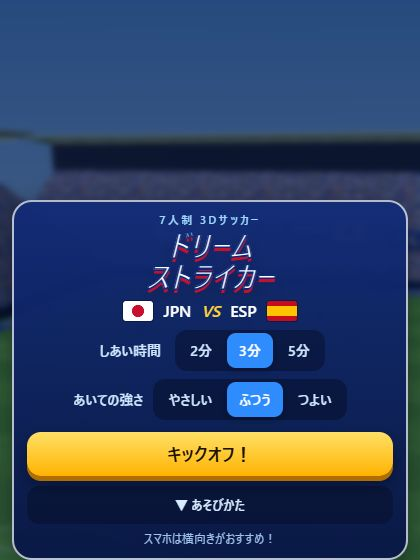
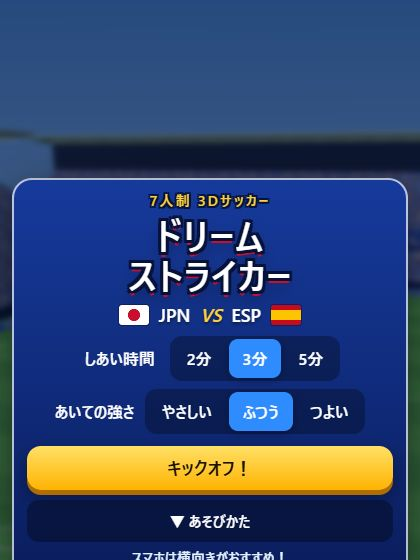
自動公開 / 更新: ドリームストライカー

diff --git a/apps/soccer-striker/index.html b/apps/soccer-striker/index.html
@@ -58,7 +58,7 @@
   .btn{position:fixed;z-index:6;border-radius:50%;background:radial-gradient(circle at 50% 30%,rgba(80,120,135,.78),rgba(18,38,52,.82));border:3px solid rgba(255,255,255,.85);display:flex;flex-direction:column;align-items:center;justify-content:center;font-weight:900;color:#fff;box-shadow:0 4px 12px rgba(0,0,0,.35);touch-action:none;transition:transform .06s}
   .btn.down{transform:scale(.92);filter:brightness(1.3)}
   .btn svg{width:42%;height:42%;pointer-events:none}
-  .btn span{font-size:clamp(11px,2.5vmin,17px);margin-top:1px;pointer-events:none;white-space:nowrap}
+  .btn span{font-size:clamp(12px,2.7vmin,18px);text-shadow:0 1px 3px rgba(0,0,0,.8);margin-top:1px;pointer-events:none;white-space:nowrap}
   #bShoot{width:var(--S);height:var(--S);right:var(--R0);bottom:calc(var(--B0) + var(--t)*1.0);border-color:#7fe3ff;box-shadow:0 0 0 3px rgba(40,160,255,.45),0 0 22px rgba(60,190,255,.7)}
   #bShoot span{font-size:clamp(13px,3vmin,20px)}
   #bPass{width:var(--s);height:var(--s);right:calc(var(--R0) + var(--S) + 2vmin);bottom:calc(var(--B0) + var(--t)*1.0 + var(--S)*.16)}
@@ -67,32 +67,32 @@
   .pow{position:absolute;inset:-9px;border-radius:50%;pointer-events:none;background:conic-gradient(#ffd23a calc(var(--p,0)*1turn),transparent 0);-webkit-mask:radial-gradient(farthest-side,transparent calc(100% - 7px),#000 calc(100% - 6px));mask:radial-gradient(farthest-side,transparent calc(100% - 7px),#000 calc(100% - 6px))}
 
   /* メッセージ */
-  #msg{position:fixed;z-index:8;left:0;right:0;top:26%;text-align:center;font-weight:900;font-style:italic;font-size:clamp(34px,11vmin,96px);letter-spacing:.04em;pointer-events:none;color:#fff;-webkit-text-stroke:2px #0b2a7a;text-shadow:0 4px 0 #0b2a7a,0 8px 24px rgba(0,0,0,.45)}
-  #msg.goal{color:#ffd23a;-webkit-text-stroke:3px #b3002d;text-shadow:0 5px 0 #b3002d,0 10px 30px rgba(0,0,0,.5);font-size:clamp(48px,16vmin,140px)}
+  #msg{position:fixed;z-index:8;left:0;right:0;top:26%;text-align:center;font-weight:900;font-size:clamp(34px,11vmin,96px);letter-spacing:.04em;pointer-events:none;color:#fff;text-shadow:3px 0px 0 #0b2a7a,-3px 0px 0 #0b2a7a,0px 3px 0 #0b2a7a,0px -3px 0 #0b2a7a,3px 3px 0 #0b2a7a,-3px -3px 0 #0b2a7a,3px -3px 0 #0b2a7a,-3px 3px 0 #0b2a7a,0 6px 0 #0b2a7a,0 10px 24px rgba(0,0,0,.5)}
+  #msg.goal{color:#ffd23a;font-style:italic;text-shadow:4px 0px 0 #b3002d,-4px 0px 0 #b3002d,0px 4px 0 #b3002d,0px -4px 0 #b3002d,4px 4px 0 #b3002d,-4px -4px 0 #b3002d,4px -4px 0 #b3002d,-4px 4px 0 #b3002d,0 7px 0 #b3002d,0 12px 30px rgba(0,0,0,.5);font-size:clamp(48px,16vmin,140px)}
   #msg.small{font-size:clamp(24px,7vmin,60px)}
   #msg.show{animation:pop .45s cubic-bezier(.2,1.6,.4,1)}
   @keyframes pop{from{transform:scale(.3);opacity:0}to{transform:scale(1);opacity:1}}
 
   /* オーバーレイ */
   .ov{position:fixed;inset:0;z-index:20;display:flex;align-items:center;justify-content:center;background:rgba(5,15,45,.55);padding:12px;-webkit-backdrop-filter:blur(3px);backdrop-filter:blur(3px)}
-  .card{width:min(560px,100%);max-height:100%;overflow:auto;background:linear-gradient(180deg,rgba(18,44,120,.95),rgba(8,22,70,.96));border:2px solid rgba(255,255,255,.7);border-radius:20px;padding:clamp(12px,3vmin,24px);text-align:center;box-shadow:0 12px 40px rgba(0,0,0,.45);touch-action:pan-y}
-  .logo{font-weight:900;font-style:italic;font-size:clamp(28px,7vmin,50px);line-height:1.05;color:#fff;-webkit-text-stroke:1.5px #0b2a7a;text-shadow:0 4px 0 #c8102e,0 8px 18px rgba(0,0,0,.4)}
-  .logo small{display:block;font-size:.38em;font-style:normal;color:#9fd8ff;text-shadow:none;-webkit-text-stroke:0;margin-bottom:4px;letter-spacing:.2em}
-  .vs{display:flex;align-items:center;justify-content:center;gap:10px;margin:clamp(8px,2vmin,14px) 0;font-weight:900;font-size:clamp(16px,3.6vmin,22px)}
+  .card{width:min(560px,100%);max-height:100%;overflow:auto;background:linear-gradient(180deg,#163a9c,#0a1d5c);border:2px solid rgba(255,255,255,.7);border-radius:20px;padding:clamp(12px,3vmin,24px);text-align:center;box-shadow:0 12px 40px rgba(0,0,0,.45);touch-action:pan-y}
+  .logo{font-weight:900;font-size:clamp(34px,8.5vmin,58px);line-height:1.12;letter-spacing:.04em;color:#fff;text-shadow:3px 0px 0 #06123a,-3px 0px 0 #06123a,0px 3px 0 #06123a,0px -3px 0 #06123a,3px 3px 0 #06123a,-3px -3px 0 #06123a,3px -3px 0 #06123a,-3px 3px 0 #06123a,0 5px 0 #c8102e,0 8px 16px rgba(0,0,0,.45)}
+  .logo small{display:block;font-size:.4em;color:#ffd23a;text-shadow:2px 0px 0 #06123a,-2px 0px 0 #06123a,0px 2px 0 #06123a,0px -2px 0 #06123a,2px 2px 0 #06123a,-2px -2px 0 #06123a,2px -2px 0 #06123a,-2px 2px 0 #06123a;margin-bottom:6px;letter-spacing:.14em}
+  .vs{display:flex;align-items:center;justify-content:center;gap:10px;margin:clamp(8px,2vmin,14px) 0;font-weight:900;font-size:clamp(18px,4vmin,24px);text-shadow:0 2px 3px rgba(0,0,0,.5)}
   .vs b{color:#ffd23a;font-style:italic}
   .opt{display:flex;align-items:center;justify-content:center;gap:10px;margin:8px 0;flex-wrap:wrap}
-  .opt label{font-weight:800;font-size:14px;min-width:5em;color:#cfe6ff}
+  .opt label{font-weight:800;font-size:16px;min-width:5em;color:#fff}
   .seg{display:flex;background:rgba(0,0,0,.3);border-radius:12px;padding:3px;gap:3px}
-  .seg button{border:0;background:transparent;color:#cfe6ff;font:inherit;font-weight:800;font-size:14px;padding:8px 12px;border-radius:9px;cursor:pointer}
+  .seg button{border:0;background:transparent;color:#fff;font:inherit;font-weight:800;font-size:16px;padding:9px 14px;border-radius:9px;cursor:pointer}
   .seg button.on{background:#2f8cff;color:#fff;box-shadow:0 2px 8px rgba(0,0,0,.3)}
   .big{display:block;width:100%;margin:12px 0 4px;border:0;border-radius:14px;padding:clamp(10px,2.4vmin,16px);font:inherit;font-weight:900;font-size:clamp(18px,4vmin,26px);color:#1b1300;background:linear-gradient(180deg,#ffe066,#ffb302);box-shadow:0 5px 0 #b06d00,0 8px 18px rgba(0,0,0,.35);cursor:pointer}
   .big:active{transform:translateY(3px);box-shadow:0 2px 0 #b06d00}
   .sub{display:block;width:100%;margin:8px 0 0;border:2px solid rgba(255,255,255,.6);border-radius:12px;padding:10px;font:inherit;font-weight:800;font-size:16px;color:#fff;background:rgba(255,255,255,.08);cursor:pointer}
-  .help{margin-top:10px;text-align:left;font-size:13px;line-height:1.7;color:#d8ecff;background:rgba(0,0,0,.25);border-radius:12px;padding:8px 12px}
+  .help{margin-top:10px;text-align:left;font-size:15px;line-height:1.75;color:#fff;background:rgba(0,0,0,.35);border-radius:12px;padding:8px 12px}
   .help summary{cursor:pointer;font-weight:800;text-align:center;list-style:none}
   .help summary::-webkit-details-marker{display:none}
   .help b{color:#ffd23a}
-  .hint{font-size:12px;color:#9fc3ea;margin-top:6px}
+  .hint{font-size:14px;font-weight:700;color:#e3f1ff;margin-top:6px}
   .resScore{display:flex;align-items:center;justify-content:center;gap:12px;font-weight:900;font-size:clamp(28px,8vmin,54px);margin:12px 0}
   @media (orientation:portrait){
     #mm{display:none}
